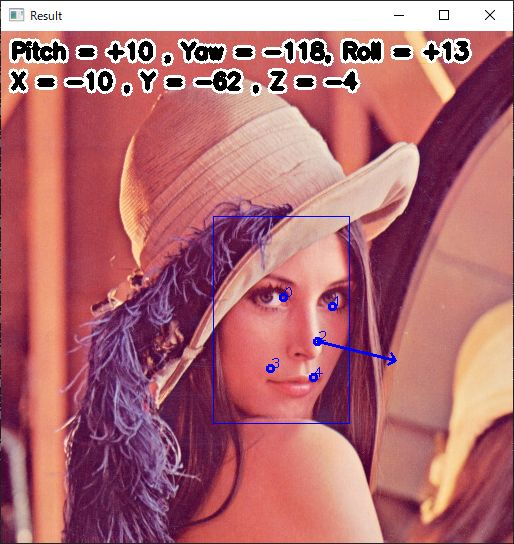
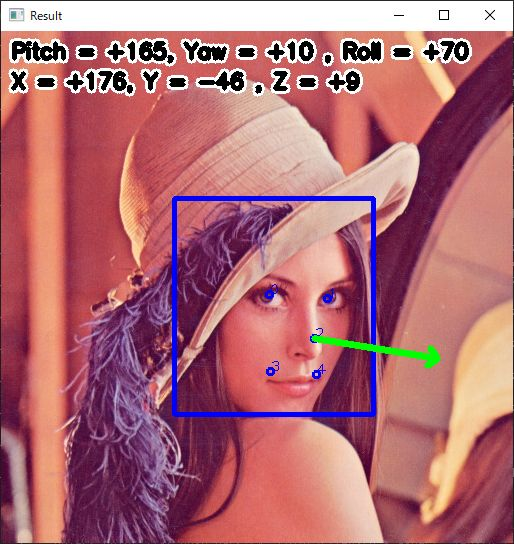
[dnn_face] overlay with transparent

diff --git a/dnn_face/main.cpp b/dnn_face/main.cpp
@@ -81,7 +81,7 @@ void EstimateHeadPose(cv::Mat& image, const FaceDetection::Landmark& landmark)
     std::vector<cv::Point3f> nose_end_point3D = { { 0.0f, 0.0f, 500.0f } };
     std::vector<cv::Point2f> nose_end_point2D;
     cv::projectPoints(nose_end_point3D, rvec, tvec, camera.parameter.K, camera.parameter.dist_coeff, nose_end_point2D);
-    cv::arrowedLine(image, face_image_point_list[0], nose_end_point2D[0], cv::Scalar(255, 0, 0), 2);
+    cv::arrowedLine(image, face_image_point_list[0], nose_end_point2D[0], cv::Scalar(0, 255, 0), 5);
 
     /* Calculate Euler Angle */
     cv::Mat R;
@@ -101,22 +101,47 @@ void EstimateHeadPose(cv::Mat& image, const FaceDetection::Landmark& landmark)
 
 
 #if 0
-    static cv::Mat image_mask = cv::imread(RESOURCE_DIR"/mask_rina.jpg");
+    static cv::Mat image_icon = cv::imread(RESOURCE_DIR"/mask_rina.png");
+    static cv::Mat image_icon_mask;
+    if (image_icon_mask.empty()) {
+        /* Generate mask image */
+        image_icon_mask = cv::Mat::zeros(image_icon.size(), CV_8UC3);
+        for (int32_t y = 0; y < image_icon.rows; y++) {
+            for (int32_t x = 0; x < image_icon.cols; x++) {
+                auto& val_icon = image_icon.at<cv::Vec3b>(y, x);
+                auto& val_mask = image_icon_mask.at<cv::Vec3b>(y, x);
+                if (val_icon[0] == 0 && val_icon[1] == 255 && val_icon[2] == 0) {   /* mask color is green */
+                    val_icon = cv::Vec3b(0, 0, 0);
+                    val_mask = cv::Vec3b(255, 255, 255);
+                } else {
+                    val_mask = cv::Vec3b(0, 0, 0);
+                }
+            }
+        }
+    }
+
     std::vector<cv::Point3f> object_point_list;
-    float aspect = static_cast<float>(image_mask.cols) / image_mask.rows;
-    float length = 500.0f;
-    object_point_list.push_back(cv::Point3f(-length * aspect, length, -150));
-    object_point_list.push_back(cv::Point3f(length * aspect, length, -150));
-    object_point_list.push_back(cv::Point3f(length * aspect, -length, -150));
-    object_point_list.push_back(cv::Point3f(-length * aspect, -length, -150));
+    float aspect = static_cast<float>(image_icon.cols) / image_icon.rows;
+    float length = 650.0f;
+    object_point_list.push_back(cv::Point3f(-length * aspect, length + 200, -150));
+    object_point_list.push_back(cv::Point3f(length * aspect, length + 200, -150));
+    object_point_list.push_back(cv::Point3f(length * aspect, -length + 200, -150));
+    object_point_list.push_back(cv::Point3f(-length * aspect, -length + 200, -150));
     CameraModel::RotateObject(Rad2Deg(rvec.ptr<float>()[0]), Rad2Deg(rvec.ptr<float>()[1]), Rad2Deg(rvec.ptr<float>()[2]), object_point_list);
 
     std::vector<cv::Point2f> image_point_list;
     cv::projectPoints(object_point_list, camera.parameter.rvec, tvec, camera.parameter.K, camera.parameter.dist_coeff, image_point_list);
 
-    cv::Point2f pts1[] = { cv::Point2f(0, 0), cv::Point2f(image_mask.cols - 1.0f, 0) , cv::Point2f(image_mask.cols - 1.0f, image_mask.rows - 1.0f) , cv::Point2f(0, image_mask.rows - 1.0f) };
+    cv::Point2f pts1[] = { cv::Point2f(0, 0), cv::Point2f(image_icon.cols - 1.0f, 0) , cv::Point2f(image_icon.cols - 1.0f, image_icon.rows - 1.0f) , cv::Point2f(0, image_icon.rows - 1.0f) };
     cv::Mat mat_affine = cv::getPerspectiveTransform(pts1, &image_point_list[0]);
-    cv::warpPerspective(image_mask, image, mat_affine, image.size(), cv::INTER_LINEAR, cv::BORDER_TRANSPARENT);
+    
+    /* overlay icon with transparent mask */
+    cv::Mat image_mask(image.size(), CV_8UC3);
+    cv::warpPerspective(image_icon_mask, image_mask, mat_affine, image_mask.size(), cv::INTER_LINEAR, cv::BORDER_CONSTANT, cv::Scalar(255, 255, 255));
+    cv::Mat image_temp(image.size(), CV_8UC3);
+    cv::warpPerspective(image_icon, image_temp, mat_affine, image_temp.size(), cv::INTER_LINEAR, cv::BORDER_CONSTANT, cv::Scalar(0, 0, 0));
+    cv::bitwise_and(image_mask, image, image);
+    cv::bitwise_or(image_temp, image, image);
 #endif
 }
 
@@ -162,7 +187,7 @@ int main(int argc, char *argv[])
         for (int32_t i = 0; i < static_cast<int32_t>(bbox_list.size()); i++) {
             const auto& bbox = bbox_list[i];
             const auto& landmark = landmark_list[i];
-            cv::rectangle(image_input, bbox, cv::Scalar(255, 0, 0));
+            cv::rectangle(image_input, bbox, cv::Scalar(255, 0, 0), 3);
             int32_t num = 0;
             for (const auto& p : landmark) {
                 cv::circle(image_input, p, 3, cv::Scalar(255, 0, 0), 2);

diff --git a/README.md b/README.md
@@ -44,8 +44,10 @@ https://user-images.githubusercontent.com/11009876/132087422-79d37de1-3ea4-476c-
 ## dnn_face
 - Face Detection using YuNet
 - Head Pose Estimatino Using SolvePnP
+- Overlay icon with transparent mask
 
 ![00_doc/dnn_face.jpg](00_doc/dnn_face.jpg)
+![00_doc/dnn_face_mask.jpg](00_doc/dnn_face_mask.jpg)
 
 # License
 - Copyright 2021 iwatake2222
@@ -70,3 +72,5 @@ https://user-images.githubusercontent.com/11009876/132087422-79d37de1-3ea4-476c-
     - fisheye_00.jpg
 - YouTube
     - dashcam_00.jpg (Copyright Dashcam Roadshow 2020. https://www.youtube.com/watch?v=tTuUjnISt9s )
+- Others
+    - https://lovelive-as.bushimo.jp/wp-content/uploads/2019/09/chara_09_stage.png (https://lovelive-as.bushimo.jp/member/rina/ )
